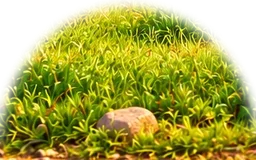
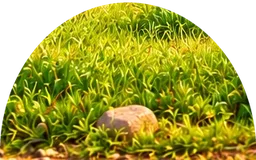
Farm prototypes: the report; a leak config for the farm (marked known: no bot yet); the grass tuft recut with a crisp edge for the art check

diff --git a/build/reports/proto-farm-2026-11-01.md b/build/reports/proto-farm-2026-11-01.md
@@ -1,0 +1,317 @@
+# Farm prototypes (1 Nov 2026)
+
+Four farm games, built as rapid prototypes from Zafar's notes of 1 Nov (`build/reports/designs/prototype-notes-2026-11-01.md`: "The farm" and "Every game"), on chai's patterns and the shared kit. Hannah Mami hosts. They are for playing in the labs and giving feedback; nothing here is final art or final Kutchi.
+
+**Branch:** `proto-farm`, on `claude/nice-lovelace-0vfjcj`. Not pushed.
+
+## The lab links
+
+On labs.html, under **"Farm prototypes (Hannah Mami, 1 Nov)"**, each with a level picker:
+
+| Game | Link |
+|---|---|
+| Feeding time | `lab.html?mode=farm&game=feed&level=1` |
+| The eggs | `lab.html?mode=farm&game=eggs&level=1` |
+| Home at dusk | `lab.html?mode=farm&game=home-dusk&level=1` |
+| Plant, water, grow, pick | `lab.html?mode=farm&game=grow-pick&level=1` |
+
+Change `level=` to 2, 3 or 4. Add these as needed:
+- `&onboard=0`: no first-time help.
+- `&quiet=1`: no voice.
+- `&seed=7`: the same round every time.
+
+## What every game shares (chai's patterns)
+
+`js/farm/kit.js` is the one screen for all four, so they behave alike.
+
+**The side panel** is the kit's own, on chai's s14 look:
+- Hannah Mami's box (`NaniGuide`). Her face replays her. The arrow opens her helper card.
+- Her order card (`OrderCard`, s14). One sideways row of item cards, one card per ask.
+- It uses chai's ids (`#side`, `#guide`, `#mission`), so the kit's s14 styles apply unchanged. Nothing in it is restyled.
+
+**The ask:**
+- She says each ask. The line comes from the language engine.
+- The ask's big card pops up at the top left of the play area (`WordCard.big14`). It then turns into its row (`WordCard.morph`), as in chai.
+- The game's taps work from the first frame. A tap during the ask lands every card at once and is never lost.
+
+**Counts:** a row ticks the moment its number is reached. The next tap doesn't land: the thing bounces back or wobbles. The tick is gold if the row was right first time, and plain after a miss.
+
+**A wrong move:**
+- The thing shakes. This is the funny reaction; there is no frown.
+- Her ask is said again.
+- The row will tick plain.
+
+**Onboarding** happens the first time a player meets each action, then not again for that profile (the labs' New player sees it on every visit):
+- The kit's light (`Onboard`, s14 look: lit and glowing, no finger) shows the thing to tap.
+- Each game lights its two first moves: basket then tray; hen then egg; animal then home; sapling then plot, then the can, then a plant.
+
+**Stuck hints** count from the last action:
+1. After the level's wait, her helper card opens in her box with the row's full answer, and she says the ask again. The wait is 7, 9, 11 or 13 s, from `data/rules.json` through `Rules.hintMs`.
+2. After twice the wait, the right thing is lit.
+
+Each counts as a hint on the end screen.
+
+**The end:**
+- She says "Shabash!" (the family's recording).
+- The game's finale plays: everyone eats, the hens cluck, night falls, the plants bounce.
+- Then the host's one end screen appears.
+
+**Voices:** every line is the language engine's (`js/core/lang/engine`). The voice plays family clips where they exist. Elsewhere the device voice speaks while testing.
+
+**Missing Kutchi:**
+- What the engine can't say shows as grey-italic English. It is tagged "to record" in the markup only.
+- The farm's missing words and lines are English placeholders in `data/farm.json`, imported into the lexicon as to-record entries. They also go onto Mum's recording sheet: `docs/language/recording-sheet.md` was regenerated.
+- No Kutchi is written in the farm's code.
+
+**Layout by height:**
+- Every scene thing is placed in shares of the play area: x of its width, foot and height of its height. One layout serves 740x320 up to 1920x1080.
+- The side panel uses the kit's two layouts by height.
+- Tap areas never fall under the kit's tap size, so small eggs and chicks are still easy to hit.
+
+## Per game
+
+### Feeding time (`feed`)
+
+Up to four animals stand in an arc of 140°, each with a tray in front, and the food baskets sit in the middle gap.
+
+She says, for example, "Hane murgi! Inke ba makai khape." (Now the hen! She wants two corn.)
+
+To play:
+1. Tap a basket: it lifts and glows, and stays chosen.
+2. Tap a tray: one piece flies in per tap.
+
+**What happens:**
+- **Right number:** the row ticks when the number is reached, and an extra piece bounces off.
+- **Wrong food:** the animal shakes its head and her ask comes again.
+- **Tapping an animal:** you hear its ask again, for free.
+- **Once fed:** an animal eats in a two-picture loop.
+- **At the end:** they all hop.
+
+**Levels:**
+
+| Level | Animals | Baskets | Pieces |
+|---|---|---|---|
+| L1 | one, near and in the middle | corn and grass | 1 or 2 |
+| L2 | two | corn and grass | 1 to 3 |
+| L3 | three | water joins (a bucket) | 1 to 3; water is always one |
+| L4 | four (hen, goat, cow, sheep) | three | 1 to 4 |
+
+Which animal wants which food changes every round, so no basket gives the answer away.
+
+### The eggs (`eggs`)
+
+Hens sit on their nests along a perch in the hen house. Tap a hen and she flaps up (one pose swap). Her eggs are under her, in the hay. Tap her again, or another hen, and she sits back down. Peeking is free.
+
+**Tapping an egg:**
+- If it's one she asked for, the egg goes straight into the basket on the floor. Nothing is handed over.
+- Once the count is reached, the next egg wobbles and stays ("careful").
+- An egg from a hen she didn't ask about wobbles, the hen clucks, and her ask comes again.
+
+One hen each round hides a chick, which tumbles out the first time she's lifted.
+
+**The line:** for example, "Wadhi murgi ja ba inda khanech!" (Bring the big hen's two eggs!). All the eggs is "Wadhi murgi ja inda khanech!".
+
+**Levels:**
+
+| Level | Hens | Asks | How the hen is picked |
+|---|---|---|---|
+| L1 | two (big, small) | one: all of one hen's eggs (1-3) | big or small |
+| L2 | three | one: so many from the big or small hen (she has more than asked) | big or small |
+| L3 | three, red and white | two: all of one hen's, and so many from another | the colour, or size and colour where the colour alone fits two hens |
+| L4 | four (big and small, red and white) | two: half of one hen's eggs (2 or 4), and so many from another | size and colour |
+
+*White* and *half* are still to record, so they show as grey English.
+
+### Home at dusk (`home-dusk`)
+
+Three homes stand along the top half against the evening sky: the coop on stilts, the goat shed and the cow shed. Each has a small round picture of its animal on the gable. The farmyard is the bottom half.
+
+She says, for example, "Ba murgi ghar je me rakh!" (Put two hens in the house!). *ghar* is used for all three homes: the engine has *house* (*ghar*) but no coop or shed.
+
+To play:
+1. Tap an animal: it glows.
+2. Tap its home: it walks in and the window lights.
+
+**What happens:**
+- **Right number:** the row ticks when the number is in.
+- **An animal she didn't ask for:** it shakes its head and her ask comes again (a miss).
+- **The wrong home:** the animal bumps the door and stays out. This is a funny moment, not a miss, because the home isn't a heard word yet.
+- **Hiding places:** the hay, the wheelbarrow and the bucket can be tapped. Someone may be under them, or no one ("Nobody here!", to record).
+- **At the end:** the sky goes dark, every window glows, and she says "Goodnight!" (to record).
+
+**Levels:**
+
+| Level | Animals | Asks |
+|---|---|---|
+| L1 | a cow and a goat in the open; a hen chilling in the bucket | one: the cow or the goat |
+| L2 | a hen in the open and one under the hay, the goat, the cow | two: two hens, and the goat or the cow |
+| L3 | a hen under the wheelbarrow and one perched on the cow shed's gate; a chick under the hay and one in the open; the goat behind the tree | three: two hens, two chicks, the goat |
+| L4 | a big goat in the open; a small goat behind the tree; hens in the bucket, under the wheelbarrow and on the gate; a chick under the hay | three: the small goat, three hens, the cow |
+
+*Cow* and *chick* are still to record (grey English).
+
+### Plant, water, grow, then pick (`grow-pick`)
+
+There is one row of four plots, with saplings in pots below, the watering can and the basket. It plays in three phases.
+
+**1. Plant.** She says "Plant the limu." The frame is still to record; the fruit word is Mum's.
+- Tap a sapling: it lifts.
+- Tap an empty plot: the sapling is planted.
+- A sapling she didn't name shakes and her ask comes again.
+
+**2. Water.** She says "Now water it." (to record).
+- Tap the can, then each new plant.
+- The water falls and the soil darkens.
+- A short time-lapse grows the plant: sapling, then bush, then fruit. She says "Look, it's growing!" the first time.
+
+**3. Pick.** Her new asks pop in as cards: "Ba limu khan!" (Take two lemons!).
+- Tap a fruit and it flies into the basket.
+- The row ticks at the number, and the next fruit wobbles on the branch.
+- A fruit she didn't ask for wobbles and her ask comes again.
+
+**Levels:**
+
+| Level | Saplings on offer | Planted | Picks |
+|---|---|---|---|
+| L1 | two | one | one fruit |
+| L2 | three | two | two or three of one fruit |
+| L3 | four | three | two, with colours (red or green tomatoes and chillies) |
+| L4 | four | all four | two, with sizes (big or small mangoes) and colours |
+
+The four fruits (*limu*, *tameto*, *mirchi*, *ambo*) are all Mum's confirmed words. This is the best-voiced of the four games.
+
+## Screenshots
+
+The screenshots were made by script with `onboard=0 quiet=1`, playing each game to the host's end screen. They are local and not committed: images under `build/` are git-ignored (decision 20).
+
+- **Final set:** every game at L1-L4, at 1280x665 (Zafar plays on a laptop for now). All 16 rounds reach the end screen with every row ticked and no console errors.
+- **Earlier pass, before the last small fixes:** all four games at L1 and L3 at all four sizes (740x320, 930x430, 1280x665, 1920x1080), with the same results.
+
+**The final set:**
+`/home/user/nani-jo-ghar/.claude/worktrees/agent-aa91e8ae7eac13845/build/screenshots/proto-farm-2026-11-01/`
+
+The files are named `<game>-L<level>-<w>x<h>-<moment>.png`. The moments are:
+- `1-ask`: her ask, the card popping up
+- `2-play`: mid-play
+- `2b-pick`: grow-pick only, the pick phase
+- `3-end`: the end screen
+
+**The kit moments:**
+- `feed-onboard-740x320.png`: the first-time light on the right basket
+- `feed-helper-1280x665.png`: her helper card opened by the stuck hint
+- `feed-spot-740x320.png`: the light, after twice the wait
+
+## What's placeholder
+
+**Hannah Mami's face.** It is cropped from Zafar's home-at-dusk mock-up (`assets/farm/proto/hannah-face.webp`) because her look isn't decided yet. Swap it in `js/farm/art.js` `HANNAH`.
+
+**Animals.** They come from the existing cuts and share one pose set: stand, eat, up, sit, happy.
+- Hen, goat and chick: `assets/characters/`.
+- Cow and sheep: the ride's s09b cuts. They have one picture each, so their pose swaps fall back to it and a bounce shows the change.
+- The white hen is the hen picture whitened with a CSS filter.
+
+**Food and fruit.**
+- Corn: Cook's corn icon.
+- Lemon and tomato: Cook's vegetables. The green tomato is the red one recoloured.
+- Chilli: the clinic's rough chilli. The red one is recoloured.
+- Mango: cut from the pick mock-up (`assets/farm/proto/mango.webp`, a little rough).
+- Grass tuft: cut from the ride's verge (`assets/farm/proto/grass.webp`).
+
+**Scenery.** The ride's sky, hills, fields, tree, bush and haystack, and the kit's wicker basket. The dusk is the sunny sky with a filter.
+
+**Flat shapes in the kit's colour tokens** (the static lint allows no gradients):
+- trays, the bucket and water, eggs
+- the perch and the hen house wall
+- the three homes (walls, roof, door, window), the wheelbarrow
+- plots, pots, the watering can, water drops
+
+**Words still to record**, in `data/farm.json`:
+- cow (Zafar's *gai*, to confirm with Mum), grass, chick, sheep, white
+- the lines: "The animals are hungry", "Bring half of …", "Plant the …", "Now water it", "Goodnight!", "Nobody here!", and the guide and headline lines
+
+They come up as grey English, and the device voice speaks them in testing.
+
+**Sounds.** Only the kit's synthesised effects (right, gold, oops). There are no animal sounds.
+
+## What I decided, and why
+
+1. **One order card, Hannah Mami's, with one item card per ask**, the same in all four games.
+   - Chai's per-person cards would have put the animal's or the hen's face on the card at every level. That gives the answer away from L3, where the rules blur the card's picture (`data/rules.json` `cardPicture`).
+   - Each card's picture is the who-and-what: the animal and its food, the hen and an egg, the animal, the fruit.
+
+2. **A basket stays chosen in feeding time.** Tap the basket once, then tap the tray the number of times asked. I read "tap a basket, then the animal's tray, the number of times asked" this way because it's easier for a small child than going basket-tray-basket-tray. Easy to flip if he meant one piece per basket tap.
+
+3. **Each feeding line is two sentences:** "Hane murgi! Inke ba makai khape."
+   - The engine's `Need` takes a person, not an animal. "Murgi ba makai khape" (its `PredDat` frame with an animal) lacks the *ke*, so I didn't use it.
+   - "Now the hen! She wants two corn." is natural, made only of confirmed frames, and names the animal.
+
+4. **"Pick" is said with *khan* (take): "Ba limu khan!"** There is no confirmed word for pick. *Take* is real Kutchi from the engine, so Zafar hears Kutchi rather than grey English. A question for Mum: is *khan* right for picking from a plant, or is there a better word?
+
+5. **"Put … in the house" (*ghar je me rakh*) at dusk.** The engine has the `PutAt` frame and *ghar*, but no coop or shed, and no "goes in". The ask still turns on the heard words: which animal, how many, and from L4 which size. The wrong home is a funny moment, not a miss.
+
+6. **Hens are red and white, not brown.**
+   - The hen art is red-brown, and *laal* is confirmed, so *red* is the hen as drawn.
+   - *White* is to record.
+   - There is no *brown* in the lexicon, so his "three eggs from the brown hen" became "… the red hen".
+   - Half is L4 only, from a hen with 2 or 4 eggs.
+
+7. **Grow-pick asks in two rounds.** The planting asks come first. The picking asks pop in after the time-lapse, as new cards on the same order card. Asking for picks before anything has grown would be odd.
+
+8. **No Done buttons, no timers.** Each phase moves on when its rows are ticked.
+
+9. **The farm's missing words go through the language pipeline.** They are added as `data/farm.json` placeholders, with `farm` added to the parked modes' importer (`build/lang/import_modes.mjs`), and the lexicon was rebuilt. The engine then answers the farm's lines like any other: its gaps are grey English, and Mum's recording sheet lists them.
+
+## Changes outside `js/farm`
+
+| File | Change |
+|---|---|
+| `build/gen_labs.mjs` | One line: the farm's games get their own group on labs.html. |
+| `labs.html` | Regenerated from `build/gen_labs.mjs`. |
+| `build/lang/import_modes.mjs` | `farm` added to the list of modes whose English placeholders it imports. |
+| `data/lang/*.json`, `data/lang/reports/*` | Rebuilt by `node build/lang/import_all.mjs`. Additions only: 4 to-record nouns (cow, grass, chick, sheep), the farm's alias on the existing to-record *white*, 12 to-record phrases, 3 to-record frames (BringHalfOfX, BringAllOfX, PlantTheX). |
+| `docs/language/recording-sheet.md` | Regenerated (`node build/tools/ops/recordings.mjs`): the farm's to-record words are now on it. |
+
+**Shared kit:** no edits to `js/shared/` or `css/shared/`.
+- The farm uses the kit as it is: `NaniGuide`, `OrderCard` (s14), `WordCard` (big14, item14, morph, fit14), `Onboard` (run, spot, the s14 look), `Rules`, `Sfx` and `Lifecycle`.
+- Chai's helper-card markup (the arrow and the help box in her guide box) lives in Cook's `ui.js`, not in the shared kit. `js/farm/kit.js` builds the same markup on `NaniGuide` so the kit's s14 styles apply. **At the roll-out, this belongs in `NaniGuide` itself.**
+
+`js/cook/**` was not touched.
+
+## Checks
+
+`node build/tools/review/checks.mjs`, with these results:
+
+| Check | Result |
+|---|---|
+| unit | green, 623 pass |
+| words | green |
+| static | green, 0 new |
+| bump | green |
+| specs | green |
+| docs | green |
+| fixlist | green |
+| recordings | green |
+| size | green |
+| load | green, 29/29 |
+| **leak** | **reports clinic and snap** |
+
+The leak result is not from this work:
+- Run alone on a clean copy of `claude/nice-lovelace-0vfjcj`, the clinic bot passes ("No problems").
+- The snap bot runs past the checks' 300 s limit even alone. In the checks run, three bots at a time hit that 300 s limit, and the line shown is the first one the bot printed.
+
+The farm's new leak config (`build/tools/review/leak-configs/farm.json`) is marked browser and knownFail. Its stub bot says there is no bot yet. The unit test needs every mode to have a config.
+
+Two fixes were made to get unit green:
+- The grass tuft was recut with a crisp edge, because the art check flagged a soft rim.
+- The farm leak config above was added.
+
+## Not done (prototype)
+
+- **No leak bot for the farm yet.** The config is a marked stub; see Checks.
+  - The heard words decide which animal, hen, home or fruit, and how many.
+  - The card pictures blur from L3.
+  - Known risk, the same as chai's: a count ticks at its number and extra taps don't land, so "tap till it ticks" wins the count. Only the choice of thing is a real test of listening.
+- **No judge pass.**
+- **No animal sounds.**
+- **Not built:** the photo shoot and the corn stall (not asked for).
+- **Hannah Mami doesn't appear in the scene.** She speaks from her box, as Nani does in chai.
